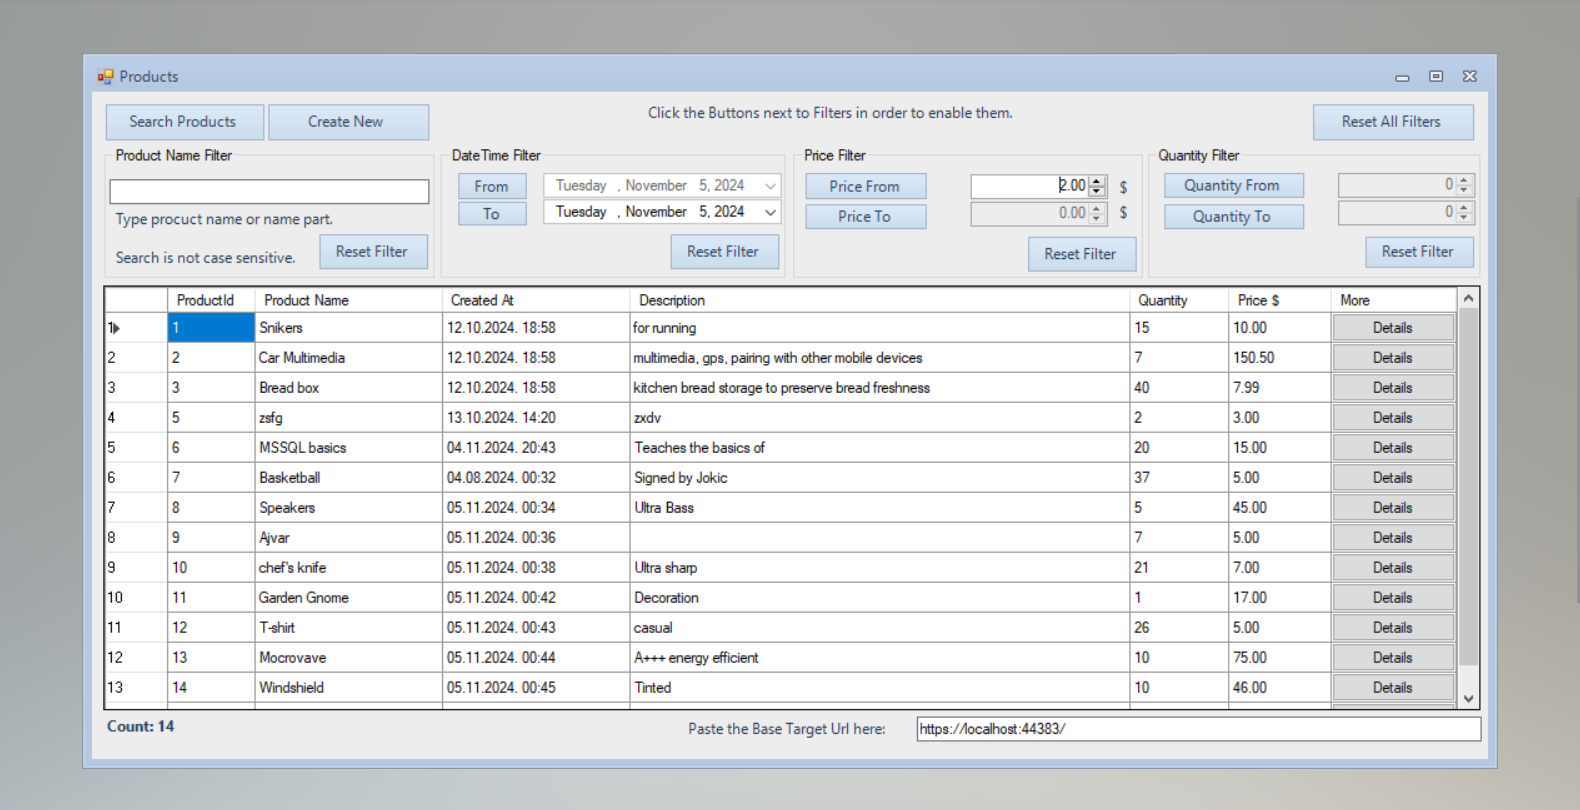
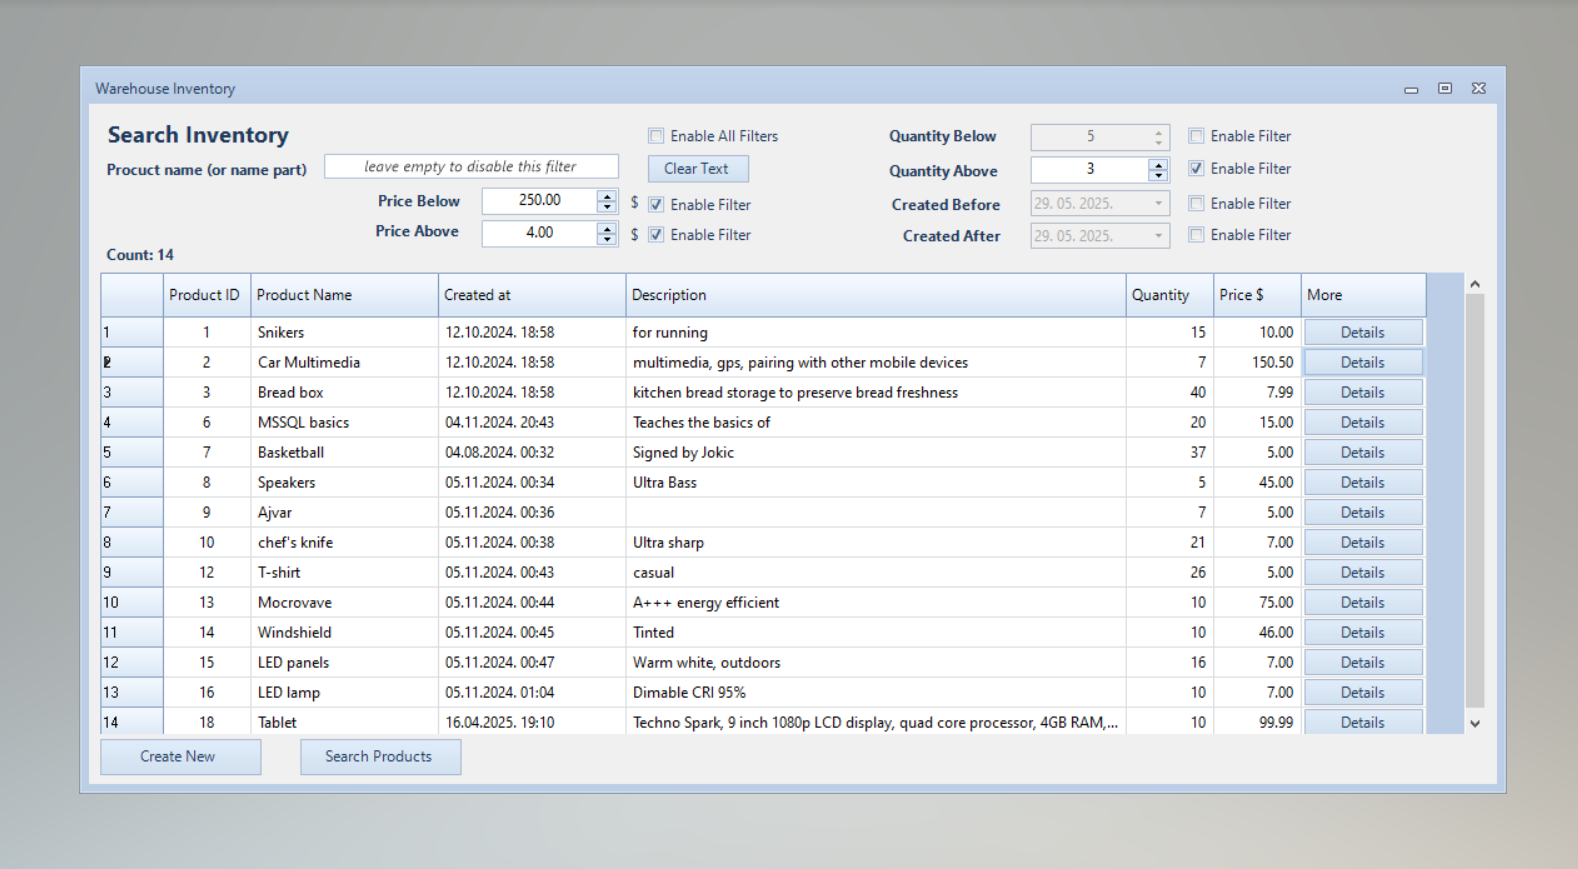
Update screenshots to reflect UI changes

Changed region(s): [[0.0311, 0.0617, 0.9626, 0.9568], [0.9937, 0.5556, 1.0, 0.7407]]

diff --git a/UI/WarehouseUI/Products.Designer.cs b/UI/WarehouseUI/Products.Designer.cs
@@ -67,7 +67,6 @@
             // 
             // lblCount
             // 
-            this.lblCount.Anchor = ((System.Windows.Forms.AnchorStyles)((System.Windows.Forms.AnchorStyles.Bottom | System.Windows.Forms.AnchorStyles.Left)));
             this.lblCount.Font = new System.Drawing.Font("Microsoft Sans Serif", 10.2F, System.Drawing.FontStyle.Bold, System.Drawing.GraphicsUnit.Point, ((byte)(0)));
             this.lblCount.LabelStyle = Krypton.Toolkit.LabelStyle.BoldPanel;
             this.lblCount.Location = new System.Drawing.Point(12, 137);
@@ -130,7 +129,7 @@
             // 
             // btnSearch
             // 
-            this.btnSearch.Anchor = ((System.Windows.Forms.AnchorStyles)((System.Windows.Forms.AnchorStyles.Top | System.Windows.Forms.AnchorStyles.Right)));
+            this.btnSearch.Anchor = ((System.Windows.Forms.AnchorStyles)((System.Windows.Forms.AnchorStyles.Bottom | System.Windows.Forms.AnchorStyles.Left)));
             this.btnSearch.Location = new System.Drawing.Point(225, 613);
             this.btnSearch.Margin = new System.Windows.Forms.Padding(3, 2, 3, 2);
             this.btnSearch.Name = "btnSearch";
@@ -154,7 +153,7 @@
             // 
             // btnCreate
             // 
-            this.btnCreate.Anchor = ((System.Windows.Forms.AnchorStyles)((System.Windows.Forms.AnchorStyles.Top | System.Windows.Forms.AnchorStyles.Right)));
+            this.btnCreate.Anchor = ((System.Windows.Forms.AnchorStyles)((System.Windows.Forms.AnchorStyles.Bottom | System.Windows.Forms.AnchorStyles.Left)));
             this.btnCreate.Location = new System.Drawing.Point(12, 613);
             this.btnCreate.Margin = new System.Windows.Forms.Padding(3, 2, 3, 2);
             this.btnCreate.Name = "btnCreate";
@@ -304,7 +303,7 @@
             // tbSearchString
             // 
             this.tbSearchString.CueHint.CueHintText = "leave empty to disable this filter";
-            this.tbSearchString.Location = new System.Drawing.Point(251, 50);
+            this.tbSearchString.Location = new System.Drawing.Point(251, 49);
             this.tbSearchString.Margin = new System.Windows.Forms.Padding(3, 2, 3, 2);
             this.tbSearchString.Name = "tbSearchString";
             this.tbSearchString.Size = new System.Drawing.Size(315, 27);
@@ -472,6 +471,9 @@
             // 
             // dgvProductsView
             // 
+            this.dgvProductsView.Anchor = ((System.Windows.Forms.AnchorStyles)((((System.Windows.Forms.AnchorStyles.Top | System.Windows.Forms.AnchorStyles.Bottom) 
+            | System.Windows.Forms.AnchorStyles.Left) 
+            | System.Windows.Forms.AnchorStyles.Right)));
             this.dgvProductsView.BorderStyle = System.Windows.Forms.BorderStyle.None;
             this.dgvProductsView.ColumnHeadersHeight = 36;
             this.dgvProductsView.Location = new System.Drawing.Point(12, 166);
@@ -549,7 +551,7 @@
             this.MinimumSize = new System.Drawing.Size(1505, 694);
             this.Name = "Products";
             this.ShowIcon = false;
-            this.Text = "Warehouse Products";
+            this.Text = "Warehouse Inventory";
             ((System.ComponentModel.ISupportInitialize)(this.dgvProductsView)).EndInit();
             ((System.ComponentModel.ISupportInitialize)(this.SearchMaskPanel)).EndInit();
             this.SearchMaskPanel.ResumeLayout(false);
